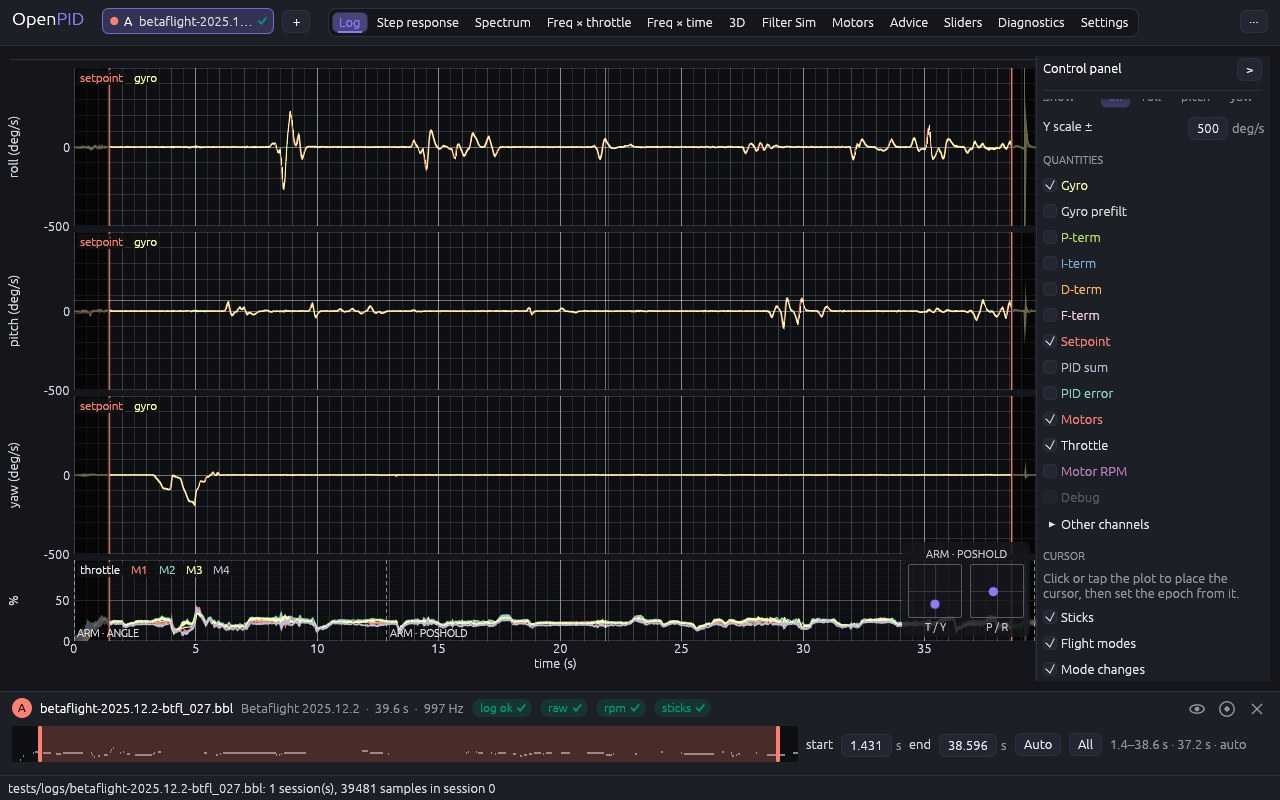
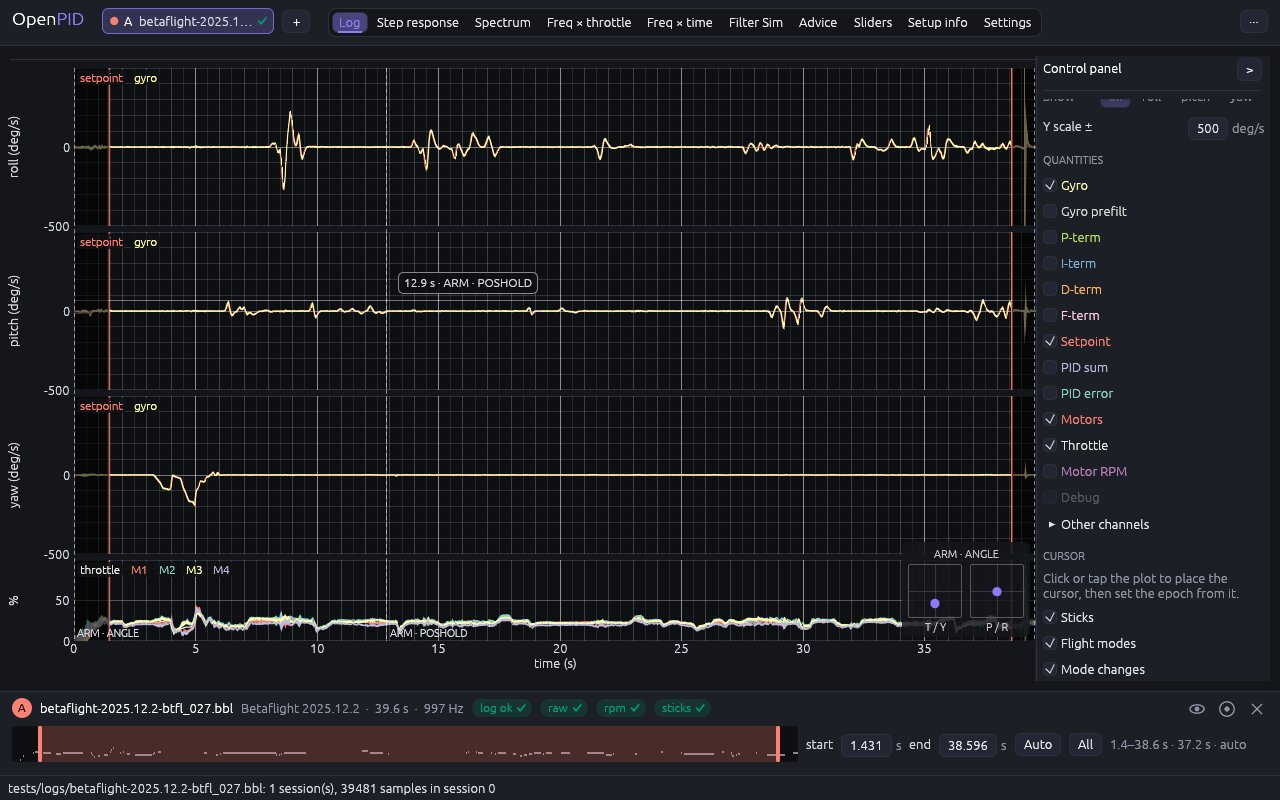
feat(app): mode-change lines run through every Log viewer row, with a label at the pointer
With "Mode changes" on, the dashed line of a flight-mode change spans all
the rows, as the reference tool draws it; the modes stay at its foot on
the throttle / motors row, cut where the next change begins. The pointer
on a line reads the time and the whole set ("12.9 s · ARM · POSHOLD"). A
log without mode data draws nothing.

Part of #141

Claude-Session: https://claude.ai/code/session_01RZdhNYUUBFBWTKFmkkfBUM

diff --git a/crates/openpid-app/src/log_tab.rs b/crates/openpid-app/src/log_tab.rs
@@ -397,20 +397,29 @@ pub fn log_viewer(app: &mut App, ui: &mut Ui) {
     let sticks_row = specs.iter().position(|r| r.key == "motors").unwrap_or(last);
     let mut sticks_frame = None;
     let mut sticks_transform = None;
+    // the plot frames of all the rows together: the mode-change lines span it
+    let mut rows_rect: Option<egui::Rect> = None;
     for (i, spec) in specs.iter().enumerate() {
         let h = unit_h * spec.weight + if i == last { 20.0 } else { 0.0 };
         let t = row(app, ui, (slot, &s, &xs), spec, h, i == last, &mut act);
         first.get_or_insert(t);
+        rows_rect = Some(rows_rect.map_or(*t.frame(), |r| r.union(*t.frame())));
         if i == sticks_row {
             sticks_frame = Some(*t.frame());
             sticks_transform = Some(t);
         }
     }
     app.viewer.mode_marks = 0;
+    app.viewer.mode_lines = None;
+    app.viewer.mode_hover = None;
     if app.tools.log_display.mode_marks
         && let Some(t) = sticks_transform
+        && let Some(rows_rect) = rows_rect
     {
-        app.viewer.mode_marks = draw_mode_marks(ui, &t, &s.mode_changes());
+        let marks = draw_mode_marks(ui, &t, rows_rect, &s.mode_changes());
+        app.viewer.mode_marks = marks.drawn;
+        app.viewer.mode_lines = (marks.drawn > 0).then_some((rows_rect.top(), rows_rect.bottom()));
+        app.viewer.mode_hover = marks.hovered;
     }
     // the sticks under the pointer while it is over the rows, else at the cursor
     let at = act.hover.or(act.cursor);
@@ -607,41 +616,95 @@ fn mode_line(modes: &[openpid_core::FlightMode]) -> String {
     }
 }
 
-/// Marks where the flight modes change, on the row of `transform`: a dashed
-/// line and the modes from then on at its foot, as the reference tool marks
-/// them under its throttle row. Returns how many were drawn.
+/// What [`draw_mode_marks`] drew.
+struct ModeMarks {
+    /// How many changes are in view.
+    drawn: usize,
+    /// The label of the change under the pointer: its time and its modes.
+    hovered: Option<String>,
+}
+
+/// How near the pointer must be to a mode-change line to get its label.
+const MODE_HOVER_PX: f32 = 5.0;
+
+/// Marks where the flight modes change, as the reference tool does: a
+/// dashed line through every row (`rows`), and the modes from then on at
+/// the foot of the row of `transform`, the throttle / motors row. The
+/// pointer on a line gets the time and the whole set of modes beside it,
+/// which the foot label cuts where two changes are close.
 fn draw_mode_marks(
     ui: &Ui,
     transform: &PlotTransform,
+    rows: egui::Rect,
     changes: &[(f64, &[openpid_core::FlightMode])],
-) -> usize {
+) -> ModeMarks {
     let frame = *transform.frame();
-    let painter = ui.painter().with_clip_rect(frame);
+    let painter = ui.painter().with_clip_rect(rows);
     let text = ui.visuals().text_color();
     let line = egui::Stroke::new(1.0, text.gamma_multiply(0.6));
     let font = egui::FontId::proportional(10.5);
-    let mut drawn = 0;
-    for (t, modes) in changes {
+    let hover_pos = ui.ctx().pointer_hover_pos().filter(|p| rows.contains(*p));
+    let mut marks = ModeMarks {
+        drawn: 0,
+        hovered: None,
+    };
+    let mut nearest: Option<(f32, egui::Pos2, String)> = None;
+    for (i, (t, modes)) in changes.iter().enumerate() {
         let x = transform.position_from_point_x(*t);
         if x < frame.left() || x > frame.right() {
             continue;
         }
         painter.add(egui::Shape::dashed_line(
-            &[egui::pos2(x, frame.top()), egui::pos2(x, frame.bottom())],
+            &[egui::pos2(x, rows.top()), egui::pos2(x, rows.bottom())],
             line,
             4.0,
             3.0,
         ));
-        painter.text(
+        // the foot label ends where the next change begins
+        let next = changes
+            .get(i + 1)
+            .map_or(frame.right(), |(t, _)| transform.position_from_point_x(*t));
+        let room = egui::Rect::from_min_max(
+            egui::pos2(x, frame.top()),
+            egui::pos2(next.max(x).min(frame.right()), frame.bottom()),
+        );
+        painter.with_clip_rect(room).text(
             egui::pos2(x + 3.0, frame.bottom() - 2.0),
             egui::Align2::LEFT_BOTTOM,
             mode_line(modes),
             font.clone(),
             text,
         );
-        drawn += 1;
+        marks.drawn += 1;
+        if let Some(p) = hover_pos {
+            let d = (p.x - x).abs();
+            if d <= MODE_HOVER_PX && nearest.as_ref().is_none_or(|(best, ..)| d < *best) {
+                nearest = Some((d, p, format!("{t:.1} s · {}", mode_line(modes))));
+            }
+        }
     }
-    drawn
+    if let Some((_, p, label)) = nearest {
+        let galley = painter.layout_no_wrap(label.clone(), egui::FontId::proportional(12.0), text);
+        let size = galley.size() + egui::vec2(12.0, 8.0);
+        // beside the pointer, on the side that has room
+        let left = if p.x + 12.0 + size.x <= rows.right() {
+            p.x + 12.0
+        } else {
+            p.x - 12.0 - size.x
+        };
+        let top = (p.y - size.y - 6.0).max(rows.top());
+        let rect = egui::Rect::from_min_size(egui::pos2(left, top), size);
+        let overlay = ui.painter().with_clip_rect(ui.clip_rect());
+        overlay.rect_filled(
+            rect,
+            5.0,
+            ui.visuals().extreme_bg_color.gamma_multiply(0.92),
+        );
+        overlay.rect_stroke(rect, 5.0, line, egui::StrokeKind::Inside);
+        overlay.galley(rect.min + egui::vec2(6.0, 4.0), galley, text);
+        marks.hovered = Some(label);
+    }
+    marks
 }
 
 /// Side of a stick box, points.

diff --git a/crates/openpid-app/src/tests/log_viewer.rs b/crates/openpid-app/src/tests/log_viewer.rs
@@ -108,6 +108,41 @@ fn log_viewer_rows_quantities_cursor_and_sticks() {
         assert_eq!(ui.app().viewer.mode_marks, 0);
         ui.check("Mode changes", true);
         assert!(ui.app().viewer.mode_marks >= 1, "btfl_027 changes modes");
+        // the lines run through every row, from the top of the first to
+        // the bottom of the last (#141)
+        let (top, bottom) = ui.app().viewer.mode_lines.expect("the lines are drawn");
+        let first = ui.plot("log/roll").probe().frame;
+        let last = ui.plot("log/other").probe().frame;
+        assert!((top - first.top()).abs() < 1.0, "{top} vs {first:?}");
+        assert!((bottom - last.bottom()).abs() < 1.0, "{bottom} vs {last:?}");
+        assert!(bottom - top > 3.0 * first.height(), "more than one row");
+        // the pointer on a line reads the time and the modes from then on
+        let session = ui.app().loaded(Slot::A).unwrap().current().unwrap().clone();
+        let changes = session.mode_changes();
+        let (at, modes) = changes
+            .iter()
+            .find(|(t, _)| (12.0..14.0).contains(t))
+            .expect("ANGLE to POSHOLD near 12.9 s");
+        assert!(modes.contains(&FlightMode::PosHold));
+        assert!(
+            changes[0].0 < 0.5,
+            "the modes at the start: {}",
+            changes[0].0
+        );
+        assert!(
+            ui.app().viewer.mode_hover.is_none(),
+            "the pointer is elsewhere"
+        );
+        ui.plot("log/pitch").hover(*at);
+        let label = ui
+            .app()
+            .viewer
+            .mode_hover
+            .clone()
+            .expect("a label at the pointer");
+        assert_eq!(label, format!("{at:.1} s · ARM · POSHOLD"));
+        ui.plot("log/pitch").hover(at + 4.0);
+        assert!(ui.app().viewer.mode_hover.is_none(), "away from the line");
     });
 }
 
@@ -204,4 +239,25 @@ fn one_axis_takes_the_full_height_on_every_axis_tab() {
     ui.key(Key::R);
     assert_eq!(ui.app().tools.axis_focus, Some(Axis::Roll));
     assert_eq!(ui.app().tools.step.axis, Axis::Roll);
+}
+
+/// A log without flight-mode data has no marks, and asking for them is no error (#141).
+#[test]
+fn mode_changes_of_a_log_without_modes() {
+    let mut ui = Ui::setup().open();
+    ui.click("Open sample log");
+    let session = ui.app().loaded(Slot::A).unwrap().current().unwrap().clone();
+    assert!(
+        session.mode_changes().is_empty(),
+        "the sample logs no modes"
+    );
+    ui.check("Mode changes", true);
+    assert_eq!(ui.app().viewer.mode_marks, 0);
+    assert!(ui.app().viewer.mode_lines.is_none());
+    ui.plot("log/roll").hover_middle();
+    assert!(ui.app().viewer.mode_hover.is_none());
+    assert!(
+        ui.app().viewer.modes.is_none(),
+        "no modes on the card either"
+    );
 }

diff --git a/crates/openpid-app/src/views.rs b/crates/openpid-app/src/views.rs
@@ -37,6 +37,11 @@ pub struct ViewerState {
     pub modes: Option<Vec<openpid_core::FlightMode>>,
     /// Mode-change marks drawn last frame.
     pub mode_marks: usize,
+    /// Top and bottom of the mode-change lines drawn last frame: they run
+    /// through every row.
+    pub mode_lines: Option<(f32, f32)>,
+    /// What the label of the mode change under the pointer said last frame.
+    pub mode_hover: Option<String>,
 }
 
 /// Pixel distance within which an epoch bound can be grabbed.

diff --git a/docs/design/log-sticks/README.md b/docs/design/log-sticks/README.md
@@ -75,10 +75,16 @@ owner's decision beats the score.
   vehicle (Copter, Plane with its Q modes); its session builder adds ARM
   from `EV` 10 / 11. The CSV reader takes `blackbox_decode`'s names.
 - **Mode changes** (owner, 2026-11-10: as the reference tool under its
-  throttle row, off by default; `LogDisplay::mode_marks`): a dashed line
-  where the modes change, with the modes from then on at its foot, on the
-  throttle / motors row.
-- `ViewerState::sticks` and `sticks_rect` keep what was drawn, for tests.
+  throttle row, off by default; `LogDisplay::mode_marks`; #141): a dashed
+  line where the modes change, through every row, with the modes from then
+  on at its foot on the throttle / motors row (cut where the next change
+  begins). The pointer within 5 px of a line gets a label beside it with
+  the time and the whole set, "12.9 s · ARM · POSHOLD". A log without
+  flight-mode data draws nothing.
+- `ViewerState::sticks`, `sticks_rect`, `mode_marks`, `mode_lines` and
+  `mode_hover` keep what was drawn, for tests.
+- Not done from #141: "epoch from mode" (select the span of one mode as
+  the analysis window), which the issue lists as optional.
 
 ## Tests
 
@@ -97,7 +103,10 @@ Plane ARM then ARM · RTL, QuadPlane QRTL); the CSV reader's
 without a cursor, under the pointer on the last row's right edge, at the
 cursor once the pointer leaves, the modes with ARM, both hidden with
 Sticks and Flight modes, the marks off by default and on with Mode
-changes).
+changes, the lines from the top of the first row to the bottom of the
+last, the label at the pointer on the change near 12.9 s and none away
+from it); `mode_changes_of_a_log_without_modes` (the sample log: no marks,
+no lines, no error).
 
 ## Implementation
 
@@ -105,6 +114,6 @@ btfl_027, the pointer at 22 s (ARM · POSHOLD):
 
 ![Sticks](sticks.jpg)
 
-With Mode changes on (ARM · ANGLE from the start, ARM · POSHOLD from 12.8 s):
+With Mode changes on (ARM · ANGLE from the start, ARM · POSHOLD from 12.9 s), the pointer on the second change:
 
 ![Mode changes](marks.jpg)

diff --git a/docs/USER-GUIDE.md b/docs/USER-GUIDE.md
@@ -93,8 +93,10 @@ cargo run --release -p openpid-app                      # or ./target/release/op
   (EmuFlight: ARM, the other switches by number), the modes and arming of
   `ArduPilot`, the names of a `blackbox_decode` CSV. **Flight modes** at the
   end of the panel hides them.
-- **Mode changes** (panel, off by default) marks where the modes change on
-  the throttle / motors row: a dashed line with the modes from then on.
+- **Mode changes** (panel, off by default) marks where the modes change: a
+  dashed line through every row, with the modes from then on at its foot
+  on the throttle / motors row. Rest the pointer on a line for the time
+  and the whole set of modes ("12.9 s · ARM · POSHOLD").
 - **Other channels** (panel, folded): checkboxes of every channel of the log;
   the **filter** field narrows the list (`gyro`, `pid.d`, `motor`…). Channel
   names are the same for every firmware: `gyro.filtered.roll`,
